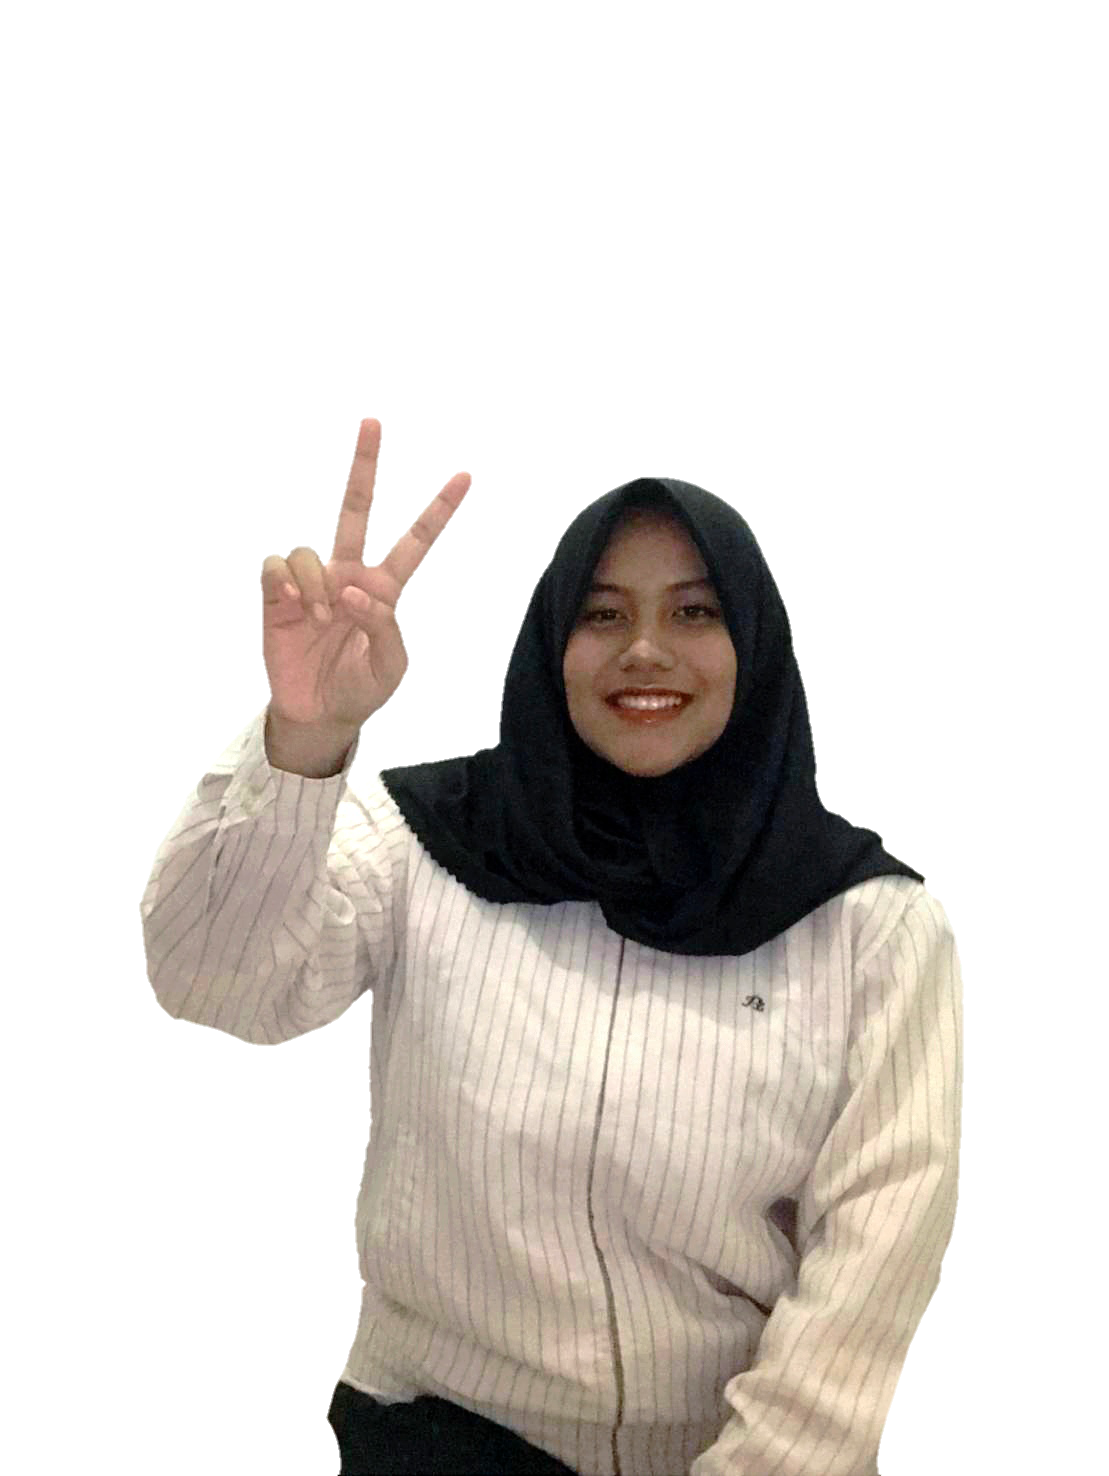
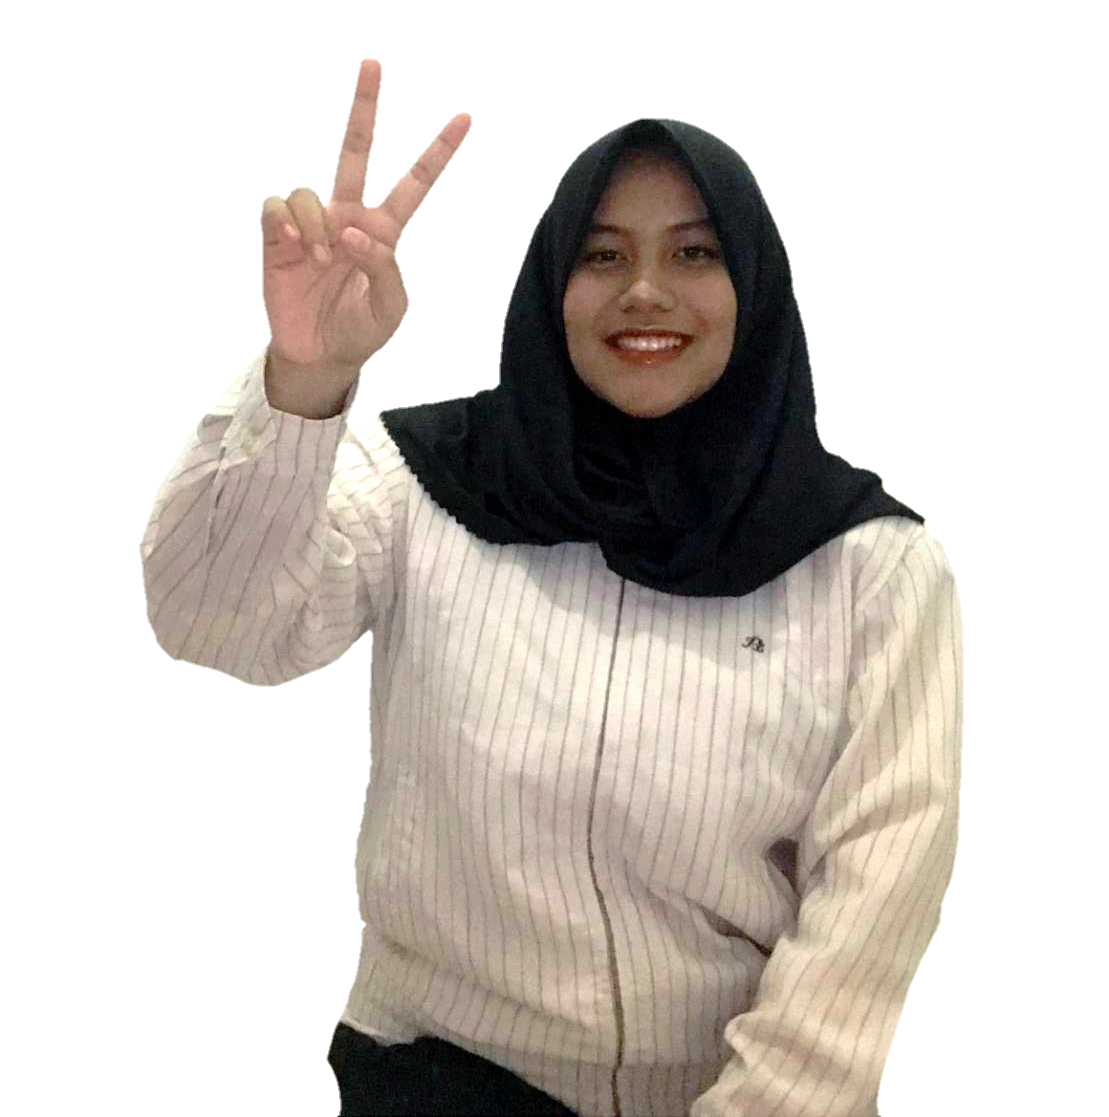
Final

diff --git a/index.html b/index.html
@@ -3,17 +3,23 @@
 <head>
     <meta charset="UTF-8">
     <meta http-equiv="X-UA-Compatible" content="IE=edge">
-    <meta name="viewport" content="width=device-width, initial-scale=1.0">
+    <meta name="viewport" content="width=device-width, initial-scale=1">
     <title>Cereza's World</title>
     <link rel="stylesheet" href="style.css">
+    <script src="animation.js"></script>
 </head>
 <body>
     <header>
-        <h1>Bayonetta</h1>
-        <p>
-            Bayonetta adalah serangkaian game aksi-petualangan yang dibuat oleh Hideki Kamiya,
-            dikembangkan oleh PlatinumGames
-        </p>
+        <div class="jumbotron">
+            <img src="assets/Logo_for_Bayonetta.png" class="intro" alt="Logo of Bayonetta (Game)">
+            <h1>Bayonetta</h1>
+            <p>
+                Bayonetta adalah serangkaian game aksi-petualangan yang dibuat oleh Hideki Kamiya,
+                dikembangkan oleh PlatinumGames, dan dimiliki oleh Sega. Waralaba diperkenalkan pada 
+                tahun 2009 dengan Bayonetta. Dua sekuel dirilis, Bayonetta 2 dan Bayonetta 3, serta spin-off, 
+                Bayonetta Origins: Cereza and the Lost Demon.
+            </p>
+        </div>
         <nav>
             <ul>
                 <li><a href="#tentang">Tentang Cereza</a></li>
@@ -24,60 +30,62 @@
     </header>
 
     <main>
-        <h1>Bayonetta</h1>
-        <img src="assets/Logo_for_Bayonetta.png" alt="Logo of Bayonetta (Game)">
-        <p>
-            Bayonetta adalah serangkaian game aksi-petualangan yang dibuat oleh Hideki Kamiya,
-            dikembangkan oleh PlatinumGames, dan dimiliki oleh Sega. Waralaba diperkenalkan pada 
-            tahun 2009 dengan Bayonetta. Dua sekuel dirilis, Bayonetta 2 dan Bayonetta 3, serta spin-off, 
-            Bayonetta Origins: Cereza and the Lost Demon.
-        </p>
-    
-        <ul>
-            <il>Tentang Cereza</il>
-            <il>Series</il>
-            <il>Gallery</il>
-        </ul>
+        <div id="content">
+            <article class="card">
+                <h2>Tentang Bayonetta (Cereza)</h2>
+                <img src="assets/bayonetta-wallpaper-small.jpg" class="featured-image" alt="Bayonetta (Cereza)">
+                <p>
+                    Bayonetta adalah tokoh utama/protagonis. Dia adalah Penyihir Umbra yang penuh gaya dan misterius
+                    yang memiliki bakat luar biasa dalam seni peluru. Setelah 500 tahun tertidur di peti mati yang terendam
+                    di dasar danau dan terbangun tanpa ingatan apa pun selain statusnya sebagai penyihir, Bayonetta berjuang
+                    untuk menemukan kebenaran tentang masa lalunya.
+                </p>
+            </article>
+            
+            <article class="card">
+                <h2>Series</h2>
+                <ol style="list-style-type:upper-roman">
+                    <li>Bayonetta 1</li>
+                    <li>Bayonetta 2</li>
+                    <li>Bayonetta 3</li>
+                    <li>Bayonetta Origins: Cereza and the Lost Demon</li>
+                </ol>
+            </article>
+            
+            <article class="card">
+                <h2>Gallery</h2>
+                <div id="gallery" class="slideshow-container">
+                    <div class="mySlides fade">
+                        <img src="assets/Bayo1.png" class="gallery" alt="Bayonetta (Cereza) in Bayonetta 1" style="width:100%">
+                    </div>
 
-        <article>
-            <h2>Tentang Bayonetta (Cereza)</h2>
-            <img src="assets/bayonetta-wallpaper-small.jpg" alt="Bayonetta (Cereza)">
-            <p>
-                Bayonetta adalah tokoh utama/protagonis. Dia adalah Penyihir Umbra yang penuh gaya dan misterius
-                yang memiliki bakat luar biasa dalam seni peluru. Setelah 500 tahun tertidur di peti mati yang terendam
-                di dasar danau dan terbangun tanpa ingatan apa pun selain statusnya sebagai penyihir, Bayonetta berjuang
-                untuk menemukan kebenaran tentang masa lalunya.
-            </p>
-        </article>
-        
-        <article>
-            <h2>Series</h2>
-            <ul>
-                <ol>Bayonetta 1</ol>
-                <ol>Bayonetta 2</ol>
-                <ol>Bayonetta 3</ol>
-                <ol>Bayonetta Origins: Cereza and the Lost Demon</ol>
-            </ul>
-        </article>
-        
-        <article>
-            <h2>Gallery</h2>
-            <img src="assets/Bayo1.png" alt="Bayonetta (Cereza) in Bayonetta 1">
-            <img src="assets/Bayo2.png" alt="Bayonetta (Cereza) in Bayonetta 2">
-            <img src="assets/Bayo3.png" alt="Bayonetta (Cereza) in Bayonetta 3">
-        </article>
+                    <div class="mySlides fade">
+                        <img src="assets/Bayo2.png" class="gallery" alt="Bayonetta (Cereza) in Bayonetta 2" style="width:100%">
+                    </div>
+
+                    <div class="mySlides fade">
+                        <img src="assets/Bayo3.png" class="gallery" alt="Bayonetta (Cereza) in Bayonetta 3" style="width:100%">
+                    </div>
+                </div>
+                <div style="text-align:center">
+                    <span class="dot" onclick="slideNow(1)"></span>
+                    <span class="dot" onclick="slideNow(2)"></span>
+                    <span class="dot" onclick="slideNow(3)"></span>
+                </div>
+            </article>
+        </div>
         
         <aside>
-            <article>
+            <article class="profile card">
                 <header>
                     <h2>Creator</h2>
                     <p>Merupakan remaja yang terobsesi dengan internet sejak dini dan suka makan nasi goreng</p>
                     <figure>
-                        <img src="assets/1674926729432.png">
+                        <img src="assets/1674926729432.png" class="" alt="Foto creator">
                         <figcaption>Creator terlihat bahagia</figcaption>
                     </figure>
                 </header>
-                <section>
+                <section class="profile">
                     <h3>Informasi Creator</h3>
                     <table>
                         <tr>

diff --git a/style.css b/style.css
@@ -1,17 +1,152 @@
+@import url("https://fonts.googleapis.com/css2?family=Montserrat&display=swap");
+ 
+* {
+  box-sizing: border-box;
+}
+ 
 body {
-    font-family: sans-serif;
- }
+  font-family: "Montserrat", sans-serif;
+  margin: 0;
+  padding: 0;
+}
+ 
+header {
+  display: inline;
+}
 
- h2 {
-    color: #00a2c6;
- }
-  
- h3 {
-    color: #00a2c6;
- }
+.jumbotron {
+  font-size: 20px;
+  padding: 60px;
+  background-image: linear-gradient(to bottom right, #9988aa, #333344);
+  text-align: center;
+  color: white;
+}
+ 
+nav {
+  background-color: #333344;
+  padding: 5px;
+  position: sticky;
+  top: 0;
+}
+ 
+nav ul {
+  padding-inline: 4rem;
+ 
+  display: flex;
+  gap: 2rem;
+}
+ 
+nav li {
+  list-style-type: none;
+}
+ 
+nav a {
+  font-size: 18px;
+  font-weight: 400;
+  text-decoration: none;
+ 
+  color: white;
+}
+ 
+nav a:hover {
+  font-weight: bold;
+}
+ 
+main {
+  padding: 20px;
+  display: flex;
+  gap: 1.5rem;
+}
+ 
+aside {
+  flex: 1;
+}
+ 
+footer {
+  padding: 20px;
+  color: #fff;
+  background-color: #333344;
+  align-items: center;
+  text-align: center;
+}
+ 
+h2 {
+  color: #444455;
+}
+ 
+h3 {
+  color: #444455;
+}
+ 
+#content {
+  flex: 5;
+}
 
- footer {
+.card {
+    box-shadow: 0 2px 8px 2px rgba(0, 0, 0, 0.2);
+    border-radius: 5px;
     padding: 20px;
-    color: white;
-    background-color: #00a2c6
- }
+    margin-top: 20px;
+}
+ 
+.profile header {
+  text-align: center;
+}
+
+.profile img {
+  width: 200px;
+} 
+
+.featured-image {
+  width: 100%;
+  max-height: 500px;
+  text-align: center;
+  align-items: center;
+  object-fit: cover;
+  object-position: center;
+}
+
+.gallery{
+    width:300px;
+}
+
+#gallery{
+    align-items: center;
+    text-align: center;
+}
+
+/* for animation photo slideshow */
+@keyframes fade {
+    from {opacity: .4}
+    to {opacity: 1}
+}
+
+.slideshow-container {
+  max-width: 1000px;
+  margin: auto;
+}
+
+.mySlides {
+  display: hidden;
+}
+
+.dot {
+  cursor: pointer;
+  height: 15px;
+  width: 15px;
+  margin: 0 2px;
+  background-color: #bbb;
+  border-radius: 50%;
+  display: inline-block;
+  transition: background-color 0.6s ease;
+}
+
+.active, .dot:hover {
+  background-color: #717171;
+}
+
+.fade {
+  animation-name: fade;
+  animation-duration: 1.5s;
+}
+}

diff --git a/animation.js b/animation.js
@@ -1,0 +1,32 @@
+let slideNumber = 1;
+
+slideShows(slideNumber);
+
+function slideNow(n) {
+    slideShows(slideNumber = n);
+}
+
+function slideShows(n) {
+  let i;
+  let slides = document.getElementsByClassName("mySlides");
+  let dots = document.getElementsByClassName("dot");
+
+  if (n > slides.length) {
+    slideNumber = 1
+  }
+
+  if (n < 1) {
+    slideNumber = slides.length
+  }
+
+  for (i = 0; i < slides.length; i++) {
+    slides[i].style.display = "none";
+  }
+
+  for (i = 0; i < dots.length; i++) {
+    dots[i].className = dots[i].className.replace(" active", "");
+  }
+
+  slides[slideNumber-1].style.display = "block";
+  dots[slideNumber-1].className += " active";
+}
